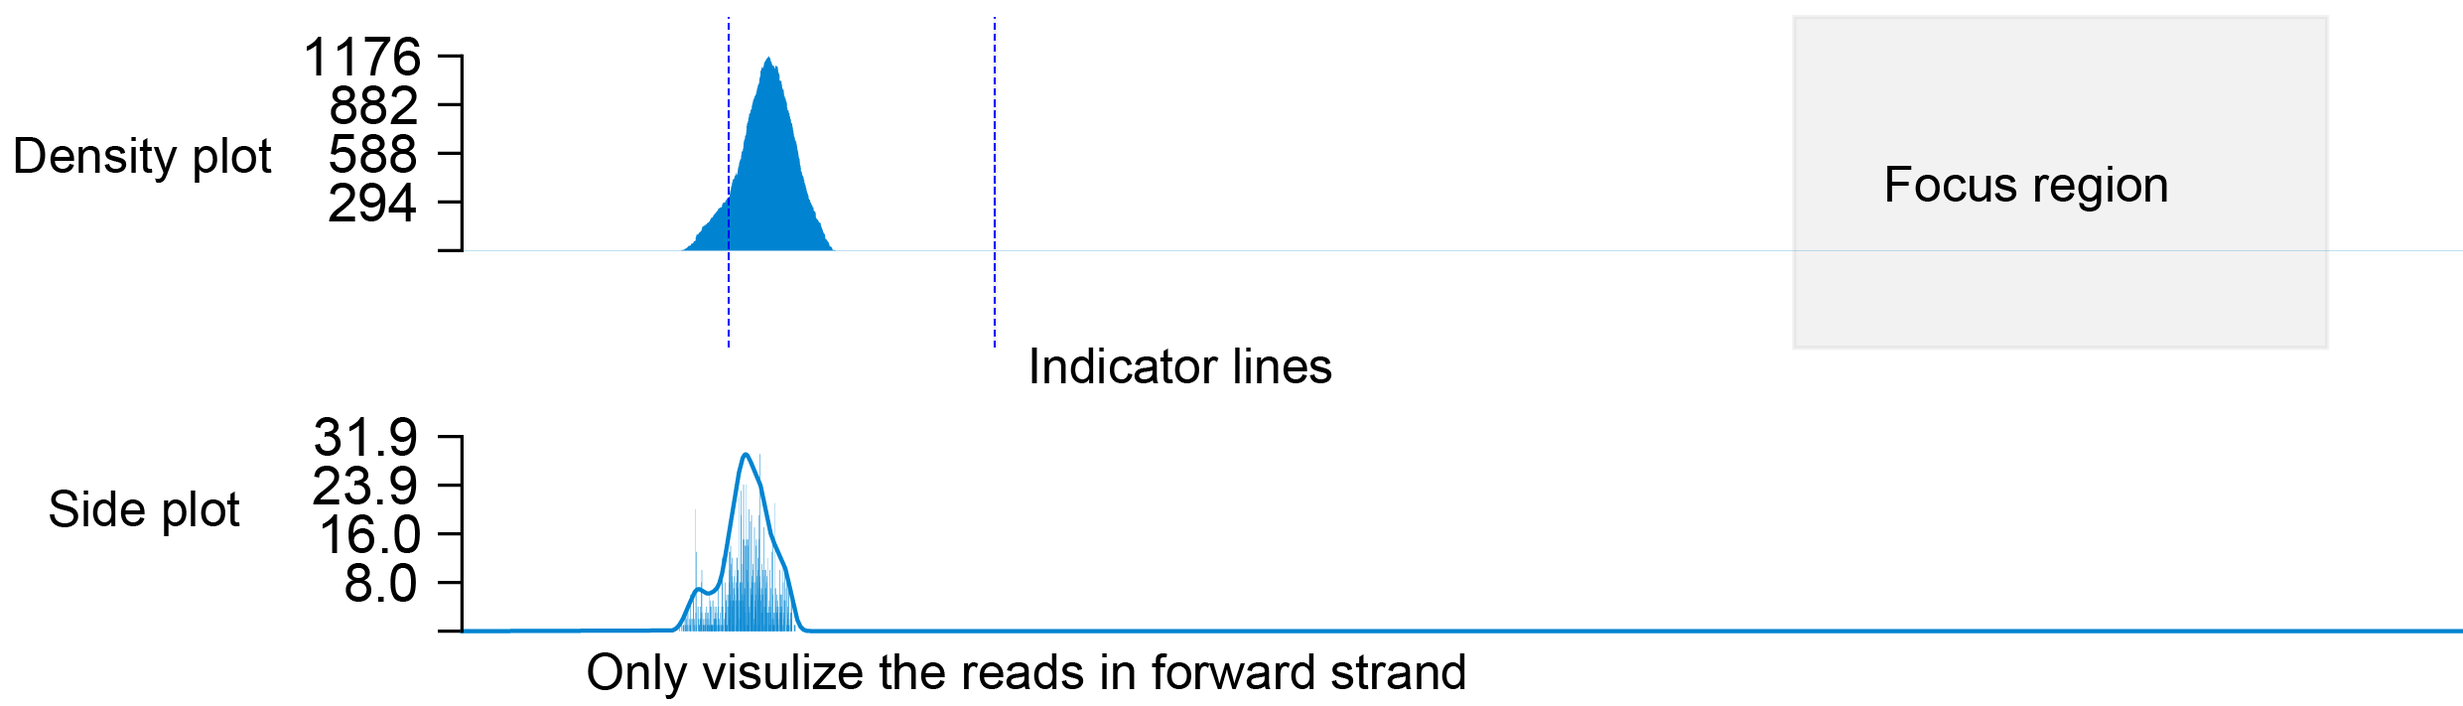
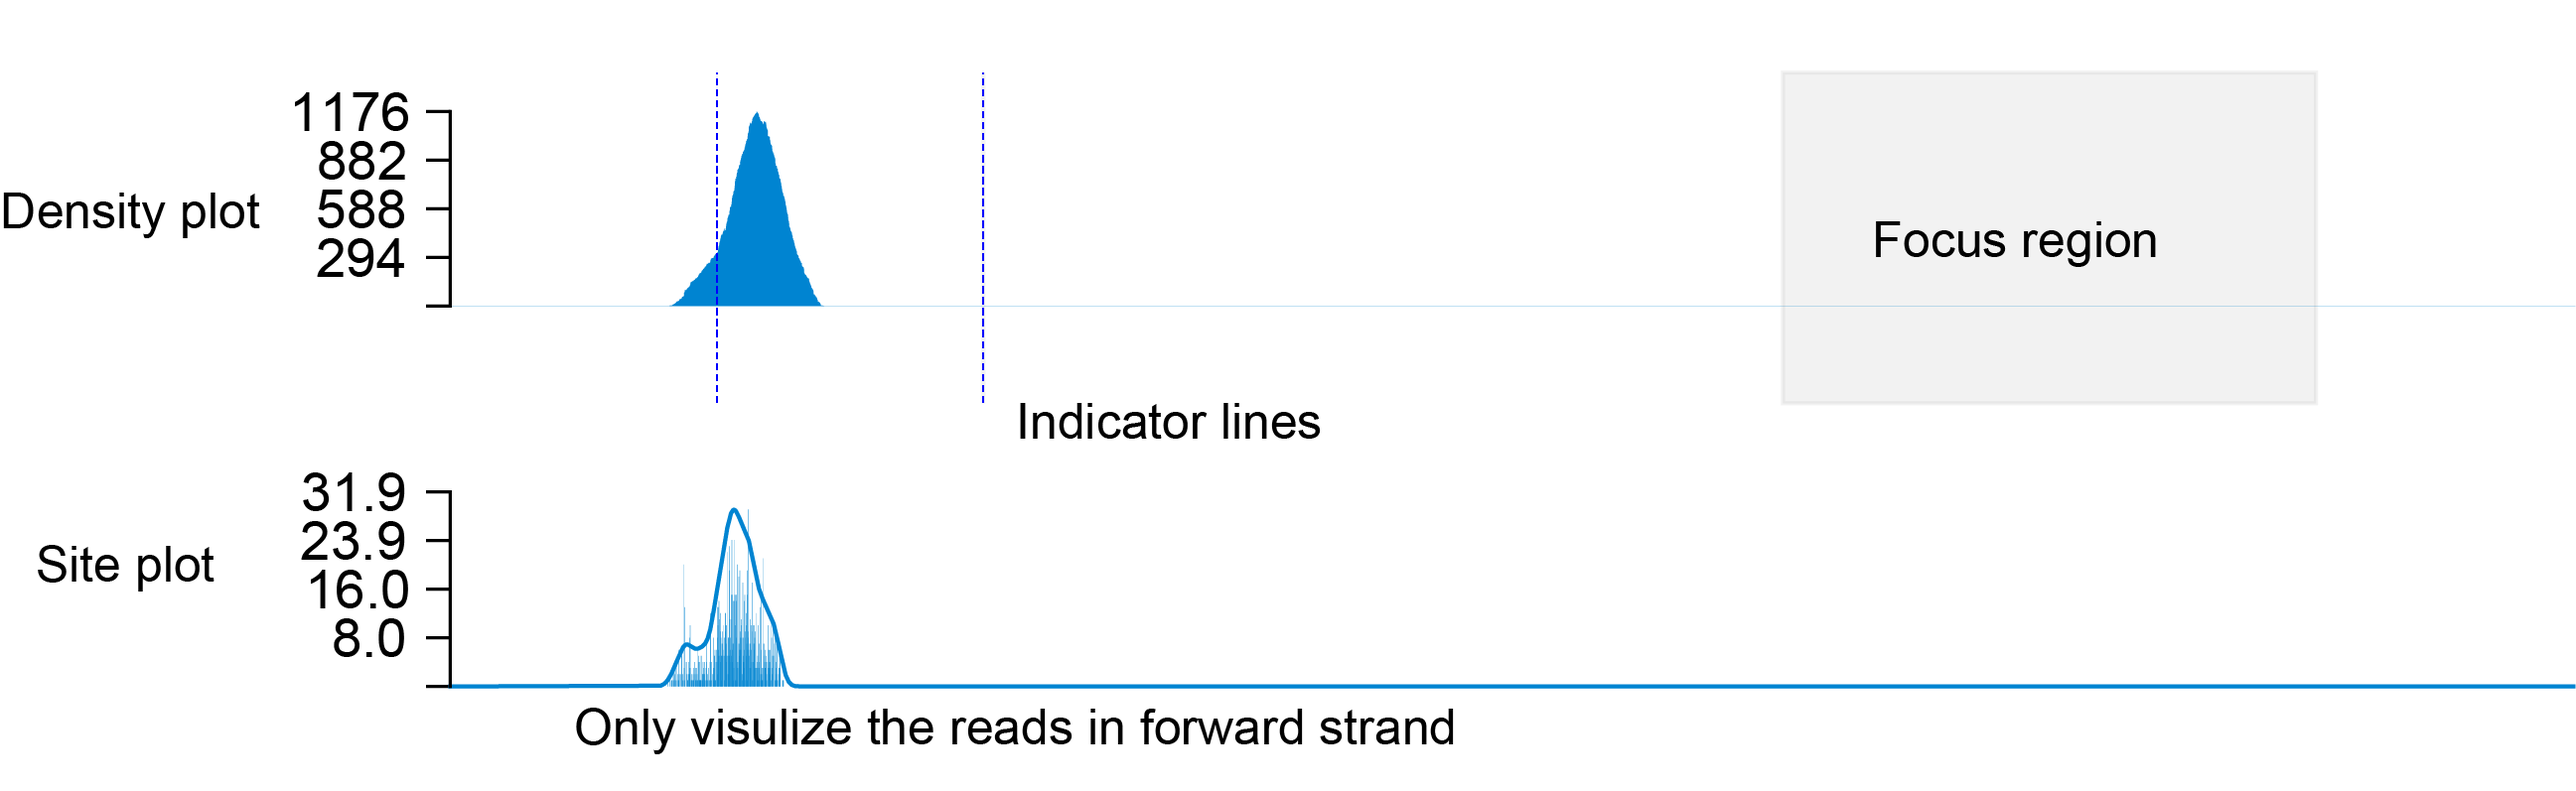
update command line and picture in doc

diff --git a/docs/command_line_usage.md b/docs/command_line_usage.md
@@ -393,6 +393,20 @@ example/SRX9697989.corrected_reads.6.bed.gz	igv	bed6
 example/SRX9697989.corrected_reads.3.bed.gz	igv	bed3	red
 example/bams/0.bam	igv	bam
 ```
+
+here is the plotting command line
+```bash
+python main.py \
+  -e 1:10024601-10038168:+ \
+  -r example/example.sorted.gtf.gz \
+  --igv example/igv.tsv \
+  -o test_igv_plot.1.pdf \
+  --dpi 300 \
+  --width 10 \
+  --height 1
+
+```
+
 ![](imgs/cmd/igv_plot.1.png)
 
 2. Sashimi.igv module load and visualize features from bam tags.
@@ -420,8 +434,23 @@ In this picture, the red track and blue dot represents the length of poly(A) and
 User could modify the config file as follows,
 
 ```bash
-#filepath	file_category	label	color exon_id
-SRX8994511.corrected_reads.bed.gz	igv	SRX8994511	black	43100453-43100519,43101366-43101432
+#filepath	file_category	label	color	focus_exon
+example/SRX8994511.example.bed.gz	igv	bed12	blue	43100453-43100519,43101366-43101432
+```
+
+here is the command line for plotting
+
+```bash
+python main.py \
+  -r Homo_sapiens.GRCh38.101.sorted.gtf.gz \
+  -e 21:43092956-43107570:+ \
+  --igv example/igv.3.tsv \
+  --focus 43100453-43100519:43101366-43101432 \
+  -o test_igv_plot.3.pdf \
+  --dpi 300 \
+  --width 6 \
+  --height 1
+
 ```
 
 ![](imgs/cmd/igv_plot.3.png)
@@ -435,6 +464,17 @@ Sashimi also support HiC track, and user could prepare [Li_et_al_2015.h5](https:
 ```bash
 # filepath  file_category   label   color  transform	depth
 example/Li_et_al_2015.h5	hic	Li_hic	RdYlBu_r	log2	30000
+```
+here is the plotting command line
+
+```bash
+python main.py \
+  -e X:2500000-3500000:+ \
+  --hic example/hic.tsv \
+  -o example.hic.png \
+  --dpi 300 \
+  --width 10 \
+  --height 1
 ```
 
 for each hic track, a bigger `depth` means a higher y-axis.  
